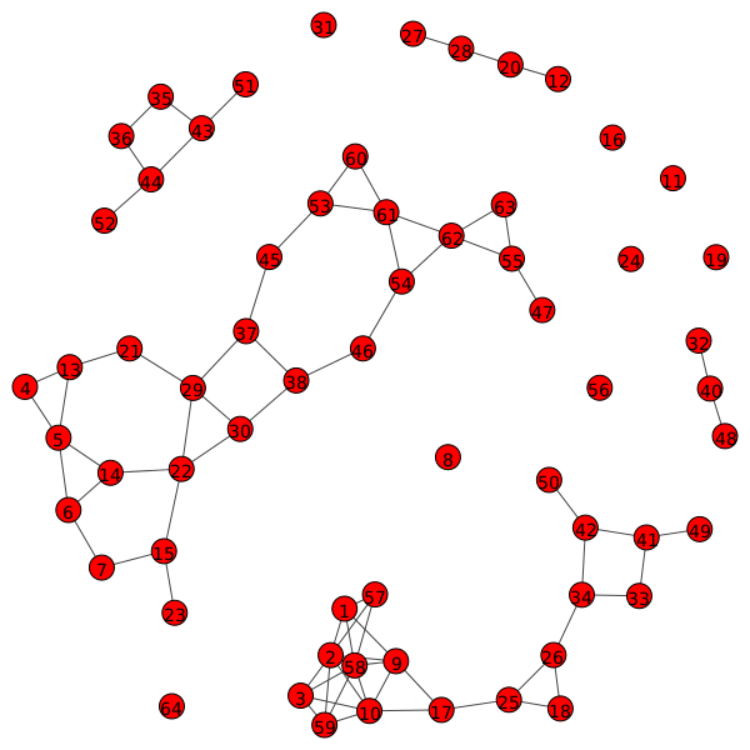
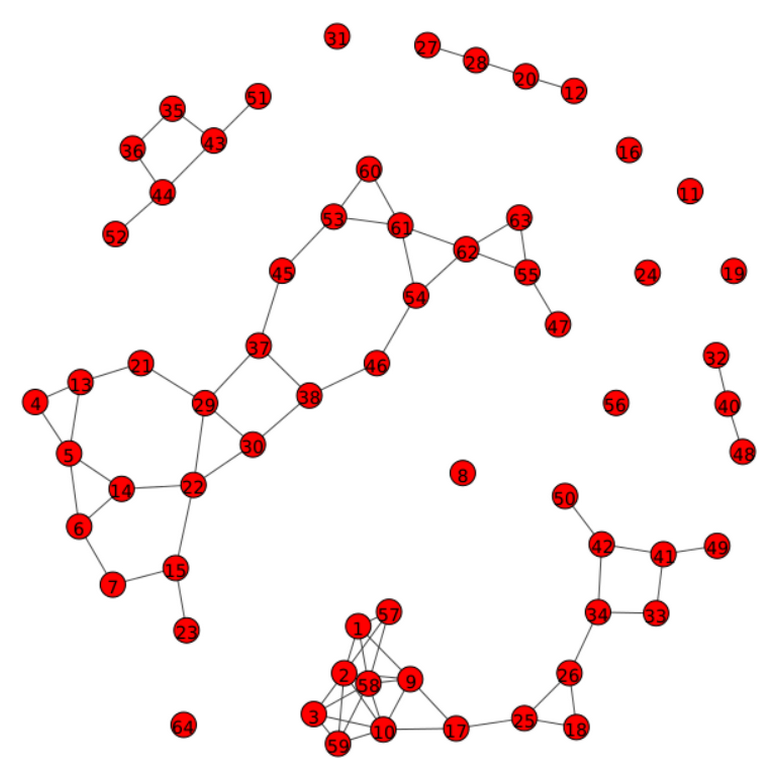
修改visualization/correlation

diff --git a/remark/remark.css b/remark/remark.css
@@ -37,7 +37,4 @@ table td {
 		background-color: #ffffff;
 }
 
-img {
-  max-width: 90%;
-  max-height: 90%;
-}
+
